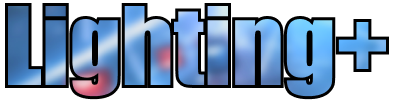
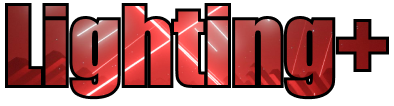
Updated cover images + read me

diff --git a/README.md b/README.md
@@ -1,6 +1,6 @@
 <br>
 <p align="center">
   <img src="https://github.com/IsGabriellaCurious/LightingPlus/blob/master/Img/cover-small.png" alt="Lighting+" /> <br>
-  <b>v1.3.0</b></br>
+  <b>v1.4.1</b></br>
   Multiplayer lighting and boost colours? Yes please!
 </p>
